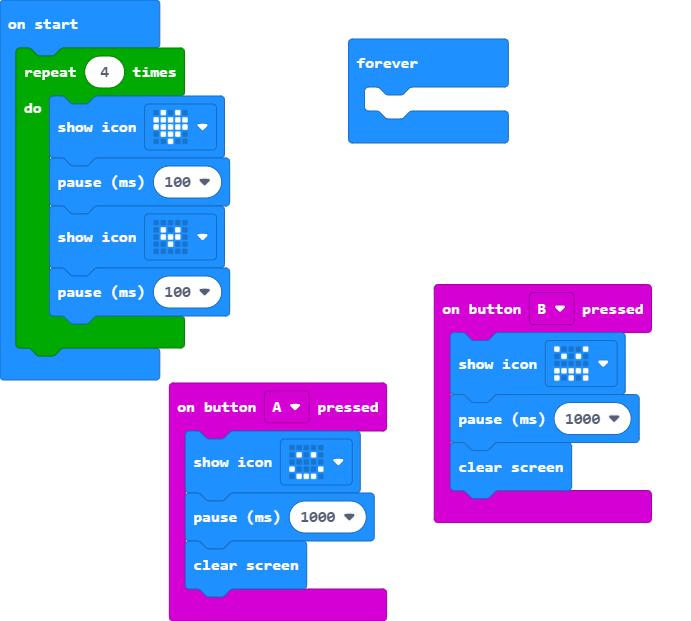
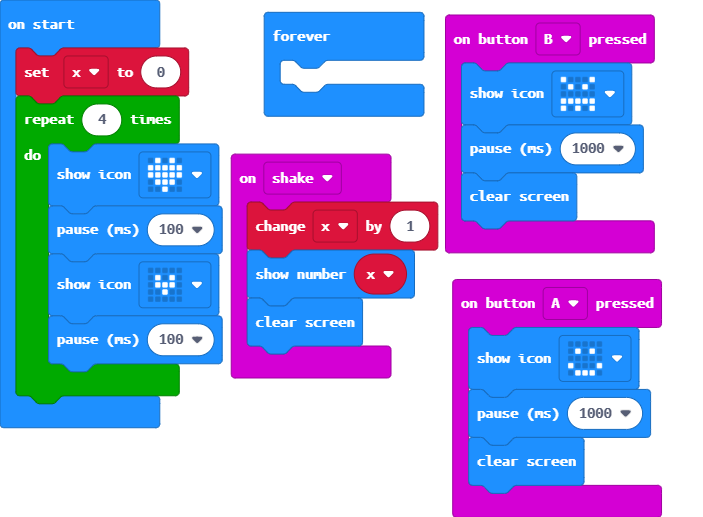
counter for on shake.

diff --git a/main.ts b/main.ts
@@ -8,6 +8,13 @@ input.onButtonPressed(Button.B, function () {
     basic.pause(1000)
     basic.clearScreen()
 })
+input.onGesture(Gesture.Shake, function () {
+    x += 1
+    basic.showNumber(x)
+    basic.clearScreen()
+})
+let x = 0
+x = 0
 for (let index = 0; index < 4; index++) {
     basic.showIcon(IconNames.Heart)
     basic.pause(100)
